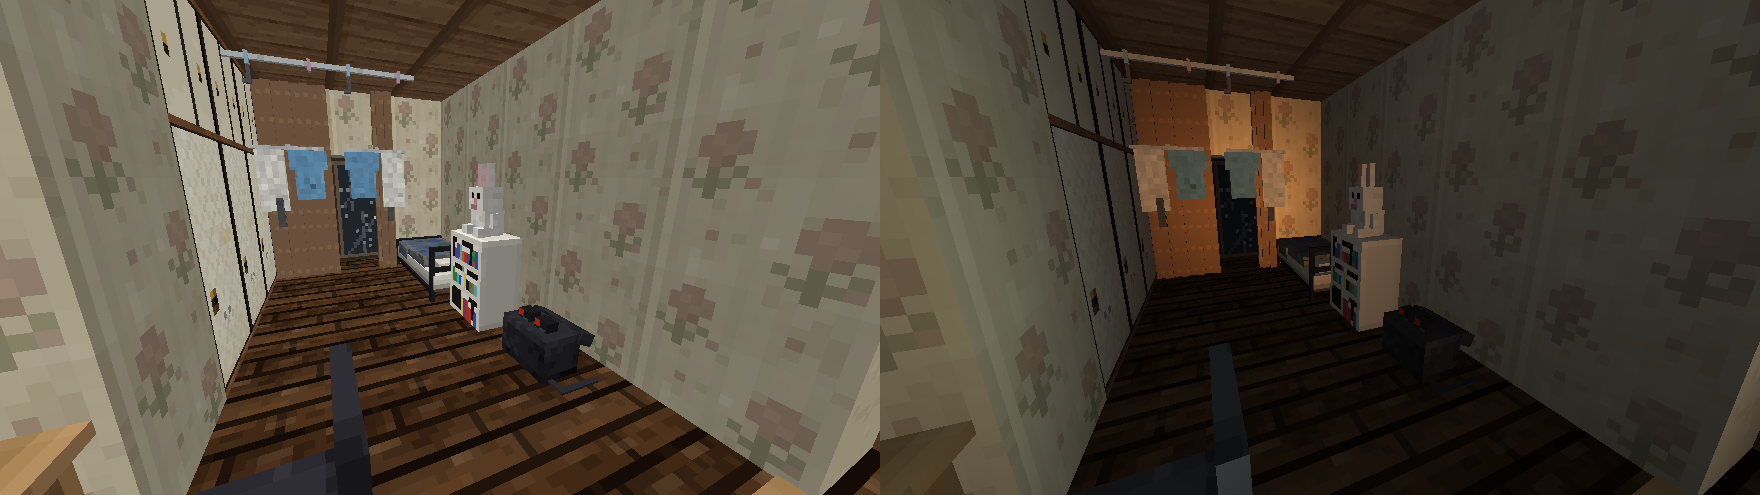
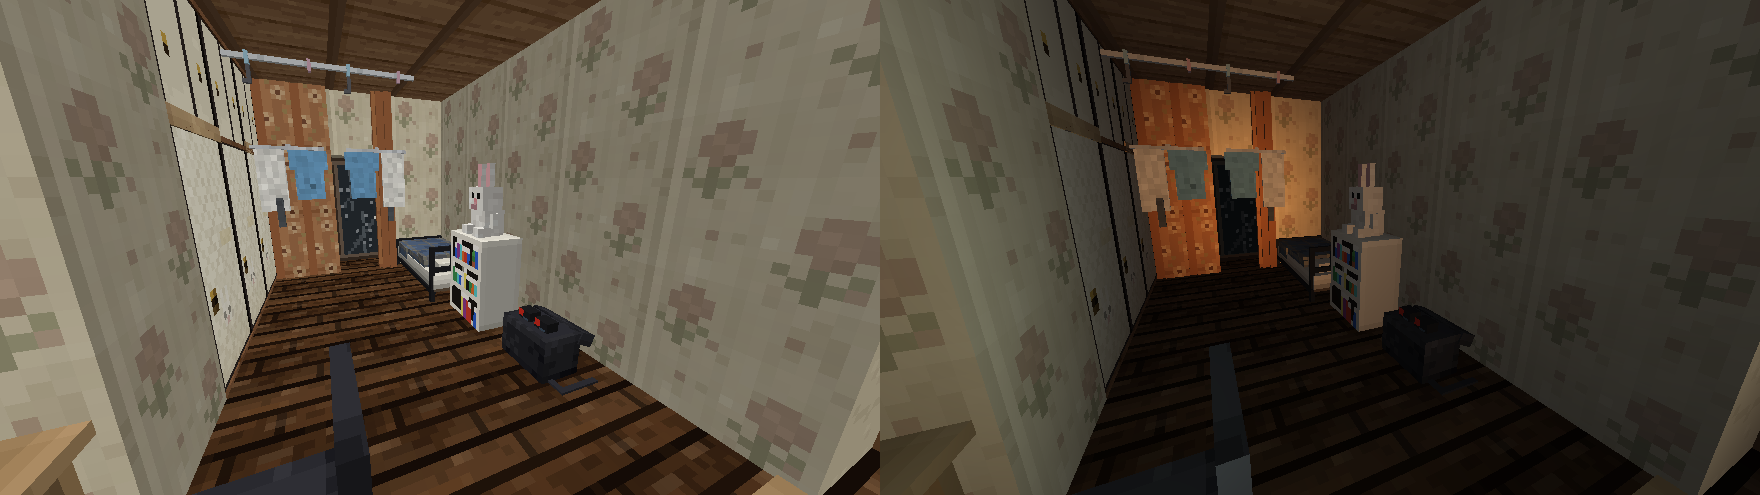
Art previews: the closet peek as the game does it (fusuma at open 1, the eye at Hiding.peekEye(), the slit over it), the world's shelf boards in both closets and the western closet's box and futon
Claude-Session: https://claude.ai/code/session_017h8AWA8SMb3MbjFEftA5Gv

Changed region(s): [[0.0938, 0.1515, 0.2188, 0.5758], [0.6562, 0.3333, 0.7188, 0.5758], [0.5938, 0.1515, 0.6875, 0.303]]

diff --git a/tools/art/hk_scene.py b/tools/art/hk_scene.py
@@ -282,7 +282,7 @@ def halves(S, name, x, z, facing, op=0):
     S.model(f'{name}_upper_{op}', x, 1, z, facing)
 
 
-def furnish203(S, tv_on=True, lamp_lit=False, laptop_on=True):
+def furnish203(S, tv_on=True, lamp_lit=False, laptop_on=True, closet_open=0):
     """Room 203 furnished as the world's ApartmentBuilder.furnish203 does (local x = X - 22, y = Y - 70)."""
     # doors and openings
     door(S, 'front_door', 2, -1, 0, 'south')
@@ -352,10 +352,12 @@ def furnish203(S, tv_on=True, lamp_lit=False, laptop_on=True):
         for x in (2, 3, 4):
             S.model('curtain_closed', x, yy, 12, 'north')
     for z in (10, 11, 12):
-        halves(S, 'oshiire_fusuma', 1, z, 'east')
+        halves(S, 'oshiire_fusuma', 1, z, 'east', closet_open)
     S.model('futon_folded', 1, 2, 10, 'east')
     S.model('futon_folded', 1, 2, 11, 'east')
     S.model('cardboard_box', 1, 2, 12, 'east')
+    for z in (10, 11, 12):
+        wmodel(S, 'oshiire_shelf_board', 1, 2, z, 'east')       # the world's middle shelf under them (shelf=true)
     # western room
     for x in (8, 9, 10):
         S.model('desk', x, 0, 7, 'south')
@@ -383,6 +385,11 @@ def furnish203(S, tv_on=True, lamp_lit=False, laptop_on=True):
     wmodel(S, 'laundry_hanging', 9, 1, 11, 'south')
     for z in (10, 11, 12):
         halves(S, 'oshiire_fusuma', 10, z, 'west')
+    # the western closet's shelf: a box and a futon on their boards
+    S.model('cardboard_box', 10, 2, 10, 'west')
+    S.model('futon_folded', 10, 2, 12, 'west')
+    for z in (10, 12):
+        wmodel(S, 'oshiire_shelf_board', 10, 2, z, 'west')
 
 
 # ================================================================================================ scenes
@@ -413,10 +420,16 @@ def scene_tatami():
 
 def scene_peek():
     """From inside the 押し入れ, crouched: the night view toward the TV, then the same through the fusuma_slit."""
-    S = full203()
+    # the game's peek: the closet's fusuma at open 1 (Hiding: setClosetFusuma 1), the client eye at Hiding.peekEye()
+    # (the closet_peek marker + 0.92 east, 1.15 up, the row's middle) facing the marker's east, a little toward the TV;
+    # the slit overlay then masks all but the screen's middle
+    S = full203(closet_open=1)
     S.light(*TV_LIGHT)
     S.light(*SODIUM)
-    eye, tgt = (1.5, 1.05, 11.0), (5.2, 0.85, 9.6)
+    yaw, pitch = math.radians(-104), math.radians(4)
+    eye = (1.92, 1.15, 10.5)
+    d = (-math.sin(yaw) * math.cos(pitch), -math.sin(pitch), math.cos(yaw) * math.cos(pitch))
+    tgt = tuple(e + 4 * k for e, k in zip(eye, d))
     night = S.render(eye, tgt, night=True, exposure=1.45, fov=70)
     return pair(night, overlay(night, 'fusuma_slit'), 'scene_peek')
 
